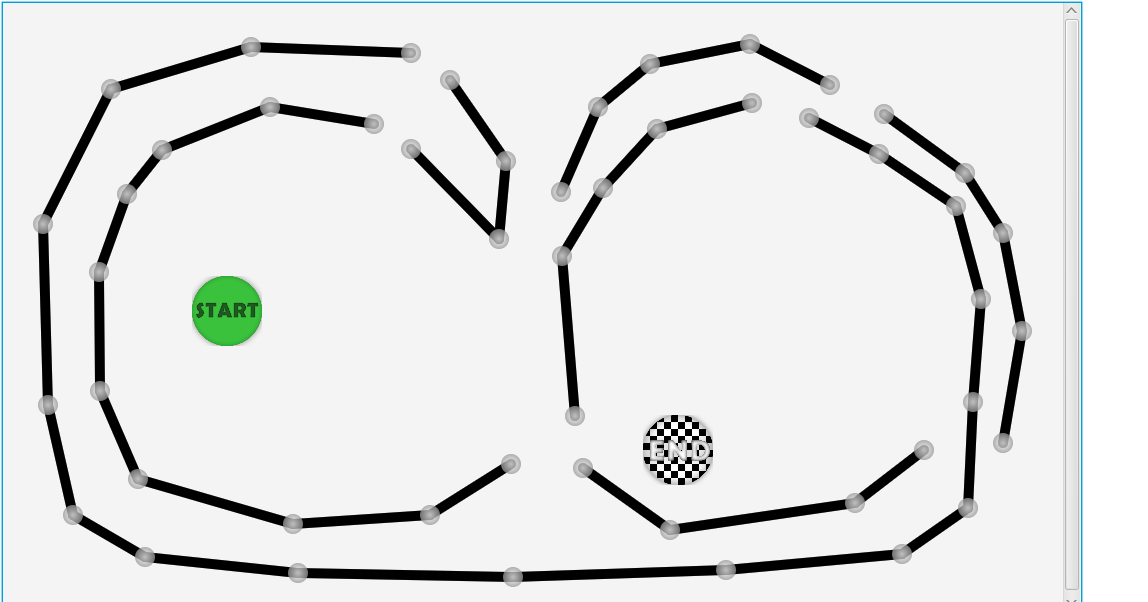
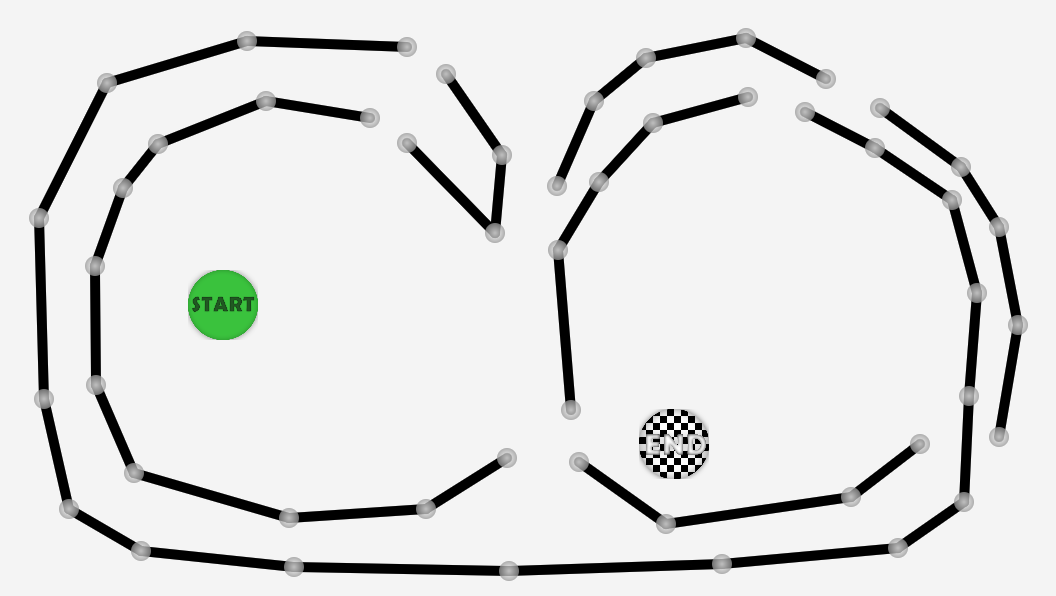
Fixed scaling in level editor.

diff --git a/Game/src/fog/ethereal/view/EditorController.java b/Game/src/fog/ethereal/view/EditorController.java
@@ -18,6 +18,7 @@ import javafx.embed.swing.SwingFXUtils;
 import javafx.event.ActionEvent;
 import javafx.event.EventHandler;
 import javafx.fxml.FXML;
+import javafx.scene.Group;
 import javafx.scene.control.ContextMenu;
 import javafx.scene.control.Label;
 import javafx.scene.control.MenuItem;
@@ -116,7 +117,9 @@ public class EditorController {
 	@FXML
 	private void initialize() {
 		content = new Pane();
-		nodes.setContent(content);
+		Group wrap = new Group();
+		wrap.getChildren().add(content);
+		nodes.setContent(wrap);
 		backdrop = new Rectangle();
 		content.getChildren().add(backdrop);
 		backdrop.setHeight(627);
